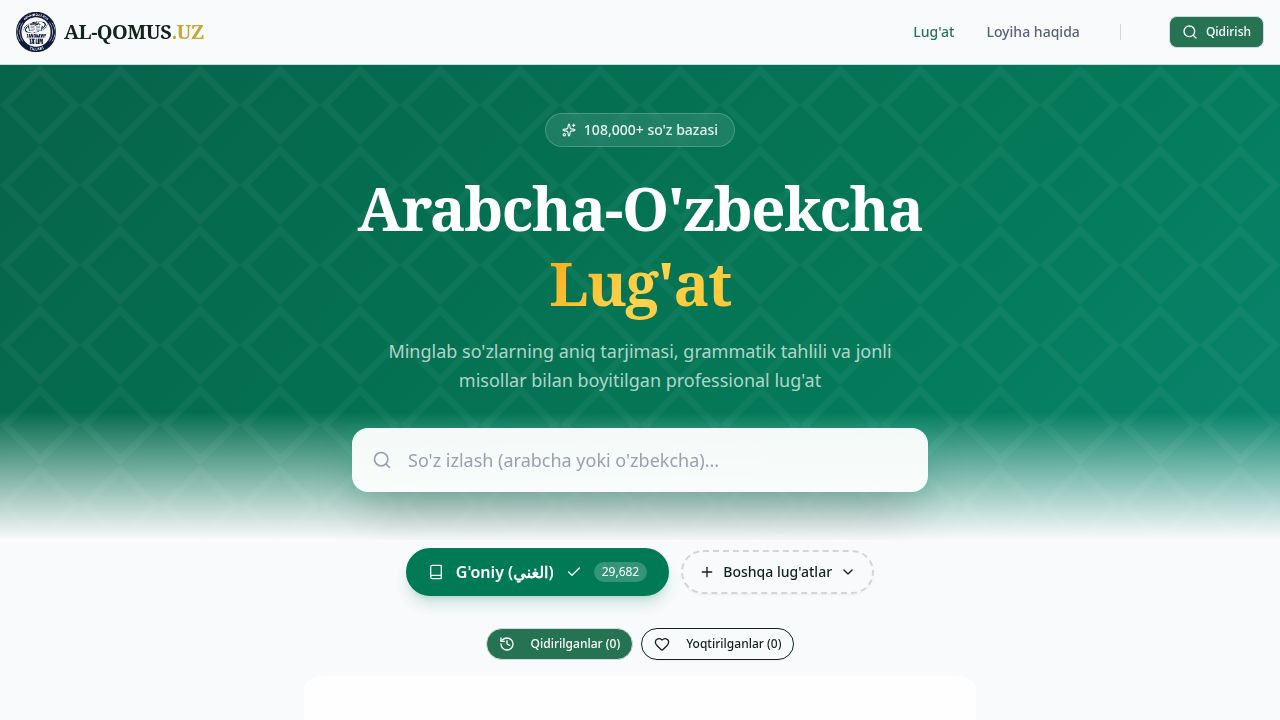
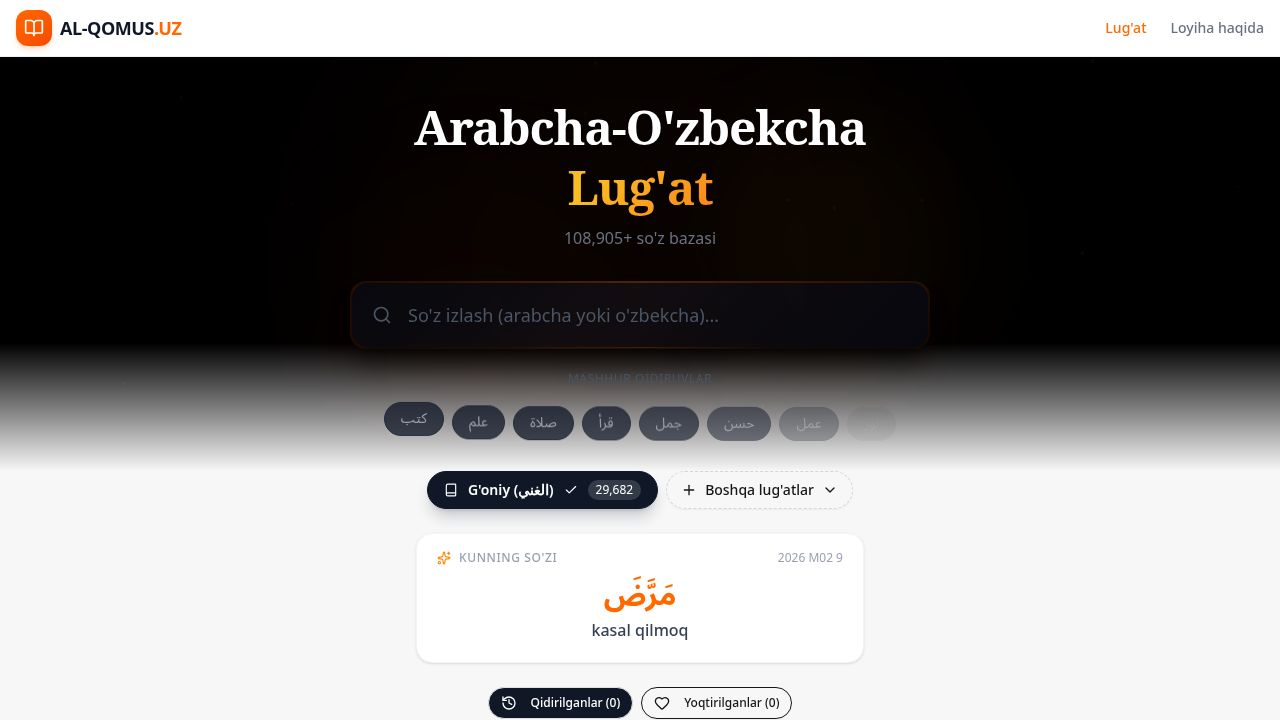
Add animated and dark-themed search bar with particle effects
Introduce new CSS animations and styles for a visually enhanced search bar, including particle effects and background gradients. Update Hero component to utilize these animations and styling.

Replit-Commit-Author: Agent
Replit-Commit-Session-Id: 045ad32a-1b8a-47cb-8ac5-9cbb3a562ac9
Replit-Commit-Checkpoint-Type: full_checkpoint
Replit-Commit-Event-Id: a6da2c6b-775d-40a9-a97a-5eb5e4b3476c
Replit-Commit-Screenshot-Url: https://storage.googleapis.com/screenshot-production-us-central1/740fe0c2-0da0-42c4-8504-c8e7afdcc9bc/045ad32a-1b8a-47cb-8ac5-9cbb3a562ac9/fDEolOe
Replit-Helium-Checkpoint-Created: true

diff --git a/client/src/components/Hero.tsx b/client/src/components/Hero.tsx
@@ -1,6 +1,6 @@
-import React, { useState } from "react";
-import { motion } from "framer-motion";
-import { Search, BookOpen } from "lucide-react";
+import React, { useState, useEffect } from "react";
+import { motion, AnimatePresence } from "framer-motion";
+import { Search, Sparkles } from "lucide-react";
 
 interface HeroProps {
   searchTerm: string;
@@ -14,77 +14,176 @@ const POPULAR_SEARCHES = [
 
 export function Hero({ searchTerm, setSearchTerm, totalWords }: HeroProps) {
   const [isFocused, setIsFocused] = useState(false);
+  const [particles, setParticles] = useState<Array<{ id: number; x: number; y: number; size: number; duration: number; delay: number }>>([]);
+
+  useEffect(() => {
+    const p = Array.from({ length: 20 }, (_, i) => ({
+      id: i,
+      x: Math.random() * 100,
+      y: Math.random() * 100,
+      size: Math.random() * 3 + 1,
+      duration: Math.random() * 4 + 3,
+      delay: Math.random() * 3,
+    }));
+    setParticles(p);
+  }, []);
 
   return (
-    <div className="relative w-full flex items-center justify-center overflow-hidden" style={{ minHeight: '340px' }}>
-      <div className="absolute inset-0 z-0 hero-gradient" />
-      <div className="absolute inset-0 z-[1] islamic-pattern opacity-[0.03]" />
-      <div className="absolute bottom-0 left-0 right-0 h-24 z-[2] bg-gradient-to-t from-background to-transparent" />
+    <div className="relative w-full flex items-center justify-center overflow-hidden" style={{ minHeight: '380px' }}>
+      <div className="absolute inset-0 z-0 bg-black" />
+
+      <div className="absolute inset-0 z-[1]">
+        {particles.map((p) => (
+          <motion.div
+            key={p.id}
+            className="absolute rounded-full bg-orange-500/30"
+            style={{ left: `${p.x}%`, top: `${p.y}%`, width: p.size, height: p.size }}
+            animate={{
+              y: [0, -30, 0],
+              opacity: [0.2, 0.6, 0.2],
+              scale: [1, 1.5, 1],
+            }}
+            transition={{
+              duration: p.duration,
+              delay: p.delay,
+              repeat: Infinity,
+              ease: "easeInOut",
+            }}
+          />
+        ))}
+      </div>
+
+      <div className="absolute inset-0 z-[2]">
+        <div className="absolute top-1/2 left-1/2 -translate-x-1/2 -translate-y-1/2 w-[600px] h-[600px] rounded-full bg-orange-500/5 blur-[100px] animate-pulse" />
+        <div className="absolute top-1/3 left-1/4 w-[300px] h-[300px] rounded-full bg-orange-600/3 blur-[80px]" style={{ animation: 'float 8s ease-in-out infinite' }} />
+        <div className="absolute bottom-1/4 right-1/4 w-[250px] h-[250px] rounded-full bg-amber-500/3 blur-[60px]" style={{ animation: 'float 6s ease-in-out infinite reverse' }} />
+      </div>
+
+      <div className="absolute bottom-0 left-0 right-0 h-32 z-[3] bg-gradient-to-t from-background to-transparent" />
 
       <div className="relative z-10 container mx-auto px-4 flex flex-col items-center text-center max-w-2xl py-10">
         <motion.div
-          initial={{ opacity: 0, y: 15 }}
+          initial={{ opacity: 0, y: 20 }}
           animate={{ opacity: 1, y: 0 }}
-          transition={{ duration: 0.4 }}
+          transition={{ duration: 0.5 }}
           className="w-full"
         >
-          <h1 className="text-2xl md:text-4xl lg:text-5xl font-bold mb-2 text-white leading-tight tracking-tight">
-            Arabcha-O'zbekcha
+          <motion.h1
+            className="text-2xl md:text-4xl lg:text-5xl font-bold mb-2 leading-tight tracking-tight"
+            initial={{ opacity: 0, scale: 0.95 }}
+            animate={{ opacity: 1, scale: 1 }}
+            transition={{ duration: 0.6 }}
+          >
+            <span className="text-white">Arabcha-O'zbekcha</span>
             <br />
-            <span className="hero-text-gradient">Lug'at</span>
-          </h1>
-          <p className="text-sm md:text-base text-white/60 mb-6 max-w-md mx-auto leading-relaxed">
+            <span className="search-title-gradient">Lug'at</span>
+          </motion.h1>
+          <motion.p
+            className="text-sm md:text-base text-gray-500 mb-8 max-w-md mx-auto leading-relaxed"
+            initial={{ opacity: 0 }}
+            animate={{ opacity: 1 }}
+            transition={{ delay: 0.3 }}
+          >
             {totalWords ? `${totalWords.toLocaleString()}+ so'z bazasi` : "Professional tarjima va grammatik tahlil"}
-          </p>
+          </motion.p>
         </motion.div>
 
         <motion.div
-          initial={{ opacity: 0, y: 15 }}
+          initial={{ opacity: 0, y: 20 }}
           animate={{ opacity: 1, y: 0 }}
-          transition={{ duration: 0.4, delay: 0.1 }}
-          className="w-full max-w-xl relative"
+          transition={{ duration: 0.5, delay: 0.15 }}
+          className="w-full max-w-xl relative group"
         >
-          <div className={`absolute -inset-1 rounded-2xl transition-all duration-500 ${
+          <div className="absolute -inset-[2px] rounded-2xl search-border-glow z-0" />
+
+          <AnimatePresence>
+            {isFocused && (
+              <motion.div
+                className="absolute -inset-3 rounded-3xl z-0"
+                initial={{ opacity: 0, scale: 0.98 }}
+                animate={{ opacity: 1, scale: 1 }}
+                exit={{ opacity: 0, scale: 0.98 }}
+                transition={{ duration: 0.3 }}
+              >
+                <div className="absolute inset-0 rounded-3xl bg-gradient-to-r from-orange-500/20 via-amber-500/20 to-orange-500/20 blur-xl animate-pulse" />
+                <div className="absolute inset-0 rounded-3xl search-ring-spin" />
+              </motion.div>
+            )}
+          </AnimatePresence>
+
+          <div className={`relative flex items-center rounded-2xl transition-all duration-500 ${
             isFocused 
-              ? 'bg-gradient-to-r from-orange-500 via-orange-400 to-orange-500 opacity-50 blur-md scale-[1.02]' 
-              : 'bg-gradient-to-r from-orange-500/20 via-orange-400/10 to-orange-500/20 opacity-30 blur-sm'
-          }`} />
-          <div className={`relative flex items-center bg-white rounded-2xl shadow-2xl transition-all duration-300 ${
-            isFocused ? 'shadow-orange-500/25 orange-glow' : 'search-glow'
+              ? 'bg-gray-950 shadow-2xl shadow-orange-500/10' 
+              : 'bg-gray-950/80 shadow-xl shadow-black/50'
           }`}>
-            <Search className={`absolute left-5 h-5 w-5 transition-colors duration-300 ${
-              isFocused ? 'text-orange-500' : 'text-gray-400'
-            }`} />
+            <div className="absolute left-5 flex items-center justify-center">
+              <motion.div
+                animate={isFocused ? { rotate: 360 } : { rotate: 0 }}
+                transition={{ duration: 0.5 }}
+              >
+                <Search className={`h-5 w-5 transition-colors duration-500 ${
+                  isFocused ? 'text-orange-400' : 'text-gray-600'
+                }`} />
+              </motion.div>
+              {isFocused && (
+                <motion.div
+                  className="absolute inset-0 flex items-center justify-center"
+                  initial={{ scale: 0, opacity: 0 }}
+                  animate={{ scale: [1, 1.8, 0], opacity: [0.5, 0.2, 0] }}
+                  transition={{ duration: 0.8 }}
+                >
+                  <div className="w-5 h-5 rounded-full border border-orange-400/50" />
+                </motion.div>
+              )}
+            </div>
+
             <input
               type="text"
               placeholder="So'z izlash (arabcha yoki o'zbekcha)..."
-              className="w-full h-14 md:h-16 pl-14 pr-5 text-base md:text-lg bg-transparent border-none outline-none text-gray-800 placeholder:text-gray-400 rounded-2xl"
+              className="w-full h-14 md:h-16 pl-14 pr-5 text-base md:text-lg bg-transparent border-none outline-none text-white placeholder:text-gray-600 rounded-2xl caret-orange-400"
               value={searchTerm}
               onChange={(e) => setSearchTerm(e.target.value)}
               onFocus={() => setIsFocused(true)}
               onBlur={() => setIsFocused(false)}
               data-testid="input-search"
             />
+
+            {searchTerm && (
+              <motion.div
+                initial={{ opacity: 0, scale: 0.8 }}
+                animate={{ opacity: 1, scale: 1 }}
+                className="absolute right-4"
+              >
+                <Sparkles className="h-4 w-4 text-orange-400 animate-pulse" />
+              </motion.div>
+            )}
           </div>
+
+          <div className="absolute -bottom-[1px] left-1/2 -translate-x-1/2 h-[1px] search-bottom-line" />
         </motion.div>
 
         <motion.div
           initial={{ opacity: 0 }}
           animate={{ opacity: 1 }}
-          transition={{ duration: 0.4, delay: 0.25 }}
-          className="mt-5 flex flex-col items-center gap-2"
+          transition={{ duration: 0.5, delay: 0.35 }}
+          className="mt-6 flex flex-col items-center gap-2.5"
         >
-          <span className="text-white/50 text-xs">Mashhur qidiruvlar:</span>
+          <span className="text-gray-600 text-xs tracking-wider uppercase">Mashhur qidiruvlar</span>
           <div className="flex flex-wrap justify-center gap-2">
-            {POPULAR_SEARCHES.map((term) => (
-              <button
+            {POPULAR_SEARCHES.map((term, i) => (
+              <motion.button
                 key={term}
                 onClick={() => setSearchTerm(term)}
-                className="px-3.5 py-1.5 rounded-full bg-white/10 hover:bg-white/20 backdrop-blur-sm text-white/80 hover:text-white text-sm font-arabic border border-white/10 hover:border-white/25 transition-all duration-200"
+                className="px-4 py-1.5 rounded-full bg-gray-900/80 hover:bg-gray-800 text-gray-400 hover:text-orange-400 text-sm font-arabic border border-gray-800 hover:border-orange-500/30 transition-all duration-300 hover:shadow-lg hover:shadow-orange-500/5"
                 data-testid={`popular-search-${term}`}
+                initial={{ opacity: 0, y: 10 }}
+                animate={{ opacity: 1, y: 0 }}
+                transition={{ delay: 0.4 + i * 0.05 }}
+                whileHover={{ scale: 1.05, y: -2 }}
+                whileTap={{ scale: 0.95 }}
               >
                 {term}
-              </button>
+              </motion.button>
             ))}
           </div>
         </motion.div>

diff --git a/client/src/index.css b/client/src/index.css
@@ -161,3 +161,65 @@
 .orange-glow {
   box-shadow: 0 0 30px rgba(249, 115, 22, 0.2), 0 0 60px rgba(249, 115, 22, 0.1);
 }
+
+@keyframes float {
+  0%, 100% { transform: translateY(0px); }
+  50% { transform: translateY(-20px); }
+}
+
+@keyframes borderRotate {
+  0% { --angle: 0deg; }
+  100% { --angle: 360deg; }
+}
+
+.search-border-glow {
+  background: linear-gradient(135deg, transparent 20%, rgba(249,115,22,0.15) 40%, rgba(249,115,22,0.3) 50%, rgba(249,115,22,0.15) 60%, transparent 80%);
+  background-size: 300% 300%;
+  animation: borderGlowMove 4s ease-in-out infinite;
+  border-radius: 1rem;
+}
+
+@keyframes borderGlowMove {
+  0% { background-position: 0% 0%; }
+  25% { background-position: 100% 0%; }
+  50% { background-position: 100% 100%; }
+  75% { background-position: 0% 100%; }
+  100% { background-position: 0% 0%; }
+}
+
+.search-ring-spin {
+  background: conic-gradient(from 0deg, transparent, rgba(249,115,22,0.1), transparent, rgba(249,115,22,0.05), transparent);
+  animation: spinRing 4s linear infinite;
+  border-radius: 1.5rem;
+}
+
+@keyframes spinRing {
+  0% { transform: rotate(0deg); }
+  100% { transform: rotate(360deg); }
+}
+
+.search-bottom-line {
+  width: 60%;
+  background: linear-gradient(90deg, transparent, rgba(249,115,22,0.4), transparent);
+  animation: bottomLinePulse 3s ease-in-out infinite;
+}
+
+@keyframes bottomLinePulse {
+  0%, 100% { width: 40%; opacity: 0.3; }
+  50% { width: 70%; opacity: 0.7; }
+}
+
+.search-title-gradient {
+  background: linear-gradient(135deg, #f97316, #fbbf24, #f97316, #fb923c);
+  background-size: 300% 300%;
+  -webkit-background-clip: text;
+  -webkit-text-fill-color: transparent;
+  background-clip: text;
+  animation: titleShimmer 5s ease infinite;
+}
+
+@keyframes titleShimmer {
+  0% { background-position: 0% 50%; }
+  50% { background-position: 100% 50%; }
+  100% { background-position: 0% 50%; }
+}
